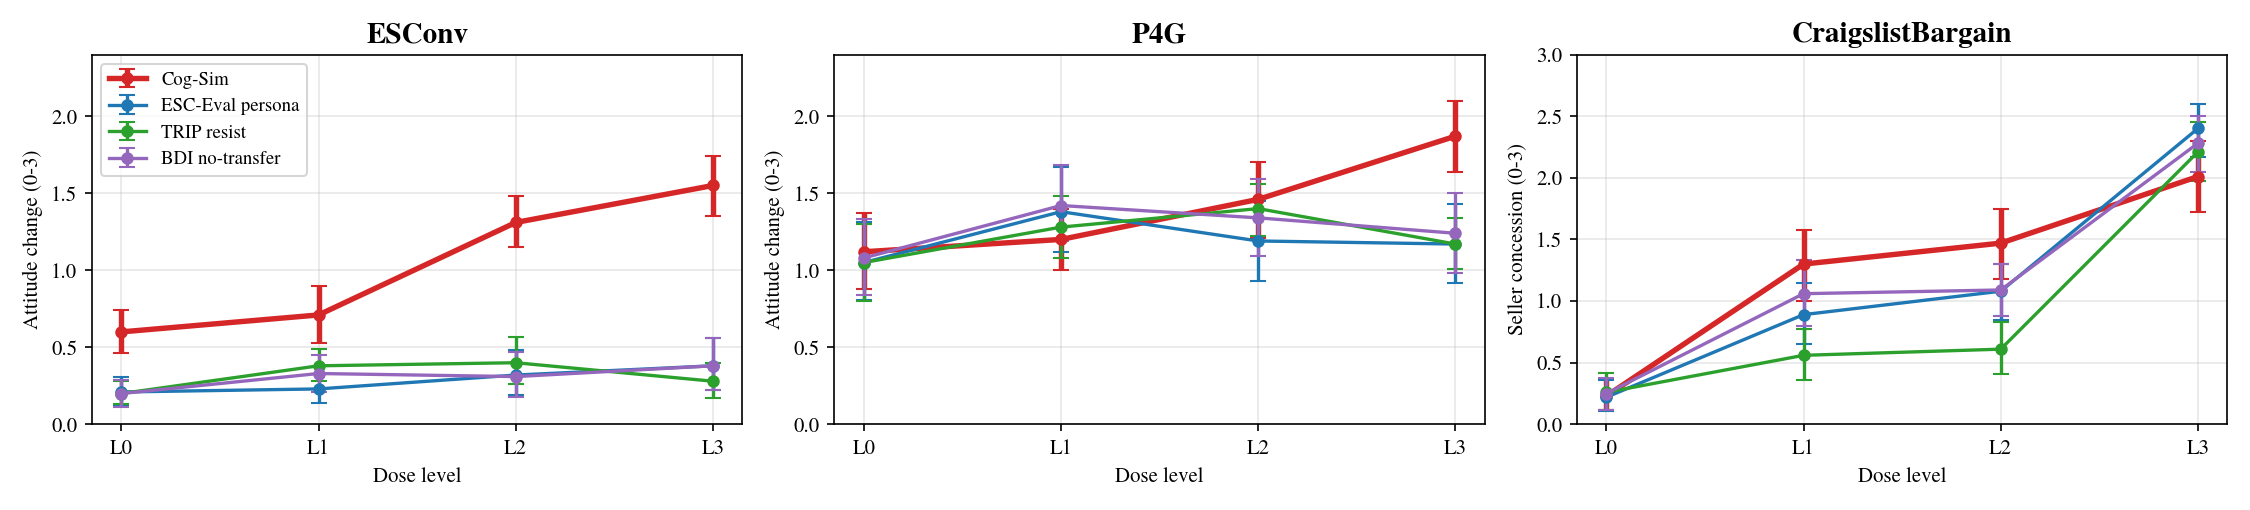
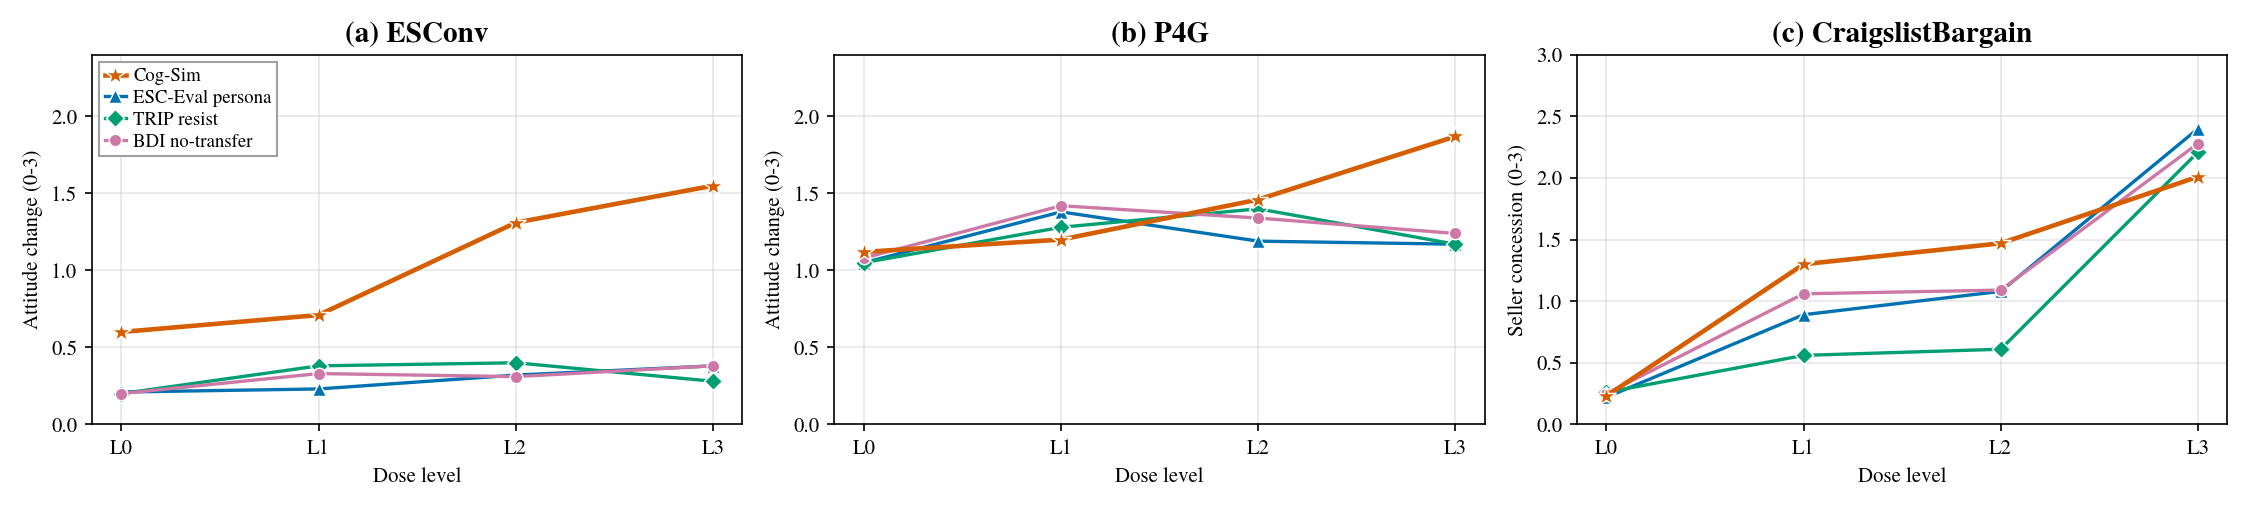
更新图表与策略分析文档，放行 result/IMPLEMENTATION
- 4_STRATEGY：策略迁移分析文档与两张柱状图更新
- 2_ABLATION / 3_GENERAL：收敛三合一图更新
- 0_SIM_REAL_LLM：dose_curves 与 plot_curves 更新
- IMPLEMENTATION：实现细节文档（DETAILS.md）首次提交
- gitignore：放行 result/IMPLEMENTATION

diff --git a/baseline/cogsim_eval/plot_curves.py b/baseline/cogsim_eval/plot_curves.py
@@ -33,8 +33,12 @@ SIMS = ["cogsim", "std_persona", "std_persona_resist", "std_bdi"]
 LABELS = {"cogsim": "Cog-Sim", "std_persona": "ESC-Eval persona",
           "std_persona_resist": "TRIP resist", "std_bdi": "BDI no-transfer"}
 LEVELS = ["L0", "L1", "L2", "L3"]
-COLORS = {"cogsim": "#d62728", "std_persona": "#1f77b4",
-          "std_persona_resist": "#2ca02c", "std_bdi": "#9467bd"}
+COLORS = {"cogsim": "#D55E00", "std_persona": "#0072B2",
+          "std_persona_resist": "#009E73", "std_bdi": "#CC79A7"}
+MARKERS = {"cogsim": "*", "std_persona": "^",
+           "std_persona_resist": "D", "std_bdi": "o"}
+MARKER_SIZES = {"cogsim": 10, "std_persona": 7,
+                "std_persona_resist": 6, "std_bdi": 6}
 RNG = np.random.default_rng(20260922)
 
 
@@ -88,9 +92,9 @@ def main() -> None:
 
     fig, axes = plt.subplots(1, 3, figsize=(15, 3.4))
     x = np.arange(len(LEVELS))
-    tasks = [("esconv", "ESConv", "Attitude change (0-3)"),
-             ("p4g", "P4G", "Attitude change (0-3)"),
-             ("cb", "CraigslistBargain", "Seller concession (0-3)")]
+    tasks = [("esconv", "(a) ESConv", "Attitude change (0-3)"),
+             ("p4g", "(b) P4G", "Attitude change (0-3)"),
+             ("cb", "(c) CraigslistBargain", "Seller concession (0-3)")]
     YMAX = {"esconv": 2.4, "p4g": 2.4, "cb": 3.0}
     for ax, (task, title, ylab) in zip(axes, tasks):
         for sim in SIMS:
@@ -101,10 +105,12 @@ def main() -> None:
             means = [stats[lv][0] for lv in LEVELS]
             lo = [means[i] - stats[lv][1] for i, lv in enumerate(LEVELS)]
             hi = [stats[lv][2] - means[i] for i, lv in enumerate(LEVELS)]
-            lw = 2.6 if sim == "cogsim" else 1.6
-            ax.errorbar(x, means, yerr=[lo, hi], label=LABELS[sim],
-                        color=COLORS[sim], linewidth=lw, marker="o",
-                        markersize=5, capsize=4)
+            lw = 2.2 if sim == "cogsim" else 1.6
+            ax.errorbar(x, means, yerr=None, label=LABELS[sim],
+                        color=COLORS[sim], linewidth=lw, marker=MARKERS[sim],
+                        markersize=MARKER_SIZES[sim], markeredgecolor="white",
+                        markeredgewidth=0.7, capsize=3, capthick=1,
+                        elinewidth=1, zorder=4 if sim == "cogsim" else 3)
         ax.set_title(title, fontsize=14, fontweight="bold")
         ax.set_xlabel("Dose level")
         ax.set_ylabel(ylab)
@@ -112,7 +118,10 @@ def main() -> None:
         ax.set_xticklabels(LEVELS)
         ax.set_ylim(0, YMAX[task])
         ax.grid(alpha=0.3)
-    axes[0].legend(fontsize=9, loc="upper left")
+    axes[0].legend(loc="upper left", ncol=1, fontsize=9, frameon=True,
+                   edgecolor="#A0A0A0", facecolor="white", framealpha=1,
+                   fancybox=False, handlelength=1.1, handletextpad=0.4,
+                   labelspacing=0.25, borderpad=0.3, borderaxespad=0.4)
     fig.tight_layout()
     plots_dir = OUT_DIR / "plots"
     plots_dir.mkdir(exist_ok=True)

diff --git a/result/0_SIM_REAL_LLM/plot_curves.py b/result/0_SIM_REAL_LLM/plot_curves.py
@@ -33,8 +33,12 @@ SIMS = ["cogsim", "std_persona", "std_persona_resist", "std_bdi"]
 LABELS = {"cogsim": "Cog-Sim", "std_persona": "ESC-Eval persona",
           "std_persona_resist": "TRIP resist", "std_bdi": "BDI no-transfer"}
 LEVELS = ["L0", "L1", "L2", "L3"]
-COLORS = {"cogsim": "#d62728", "std_persona": "#1f77b4",
-          "std_persona_resist": "#2ca02c", "std_bdi": "#9467bd"}
+COLORS = {"cogsim": "#D55E00", "std_persona": "#0072B2",
+          "std_persona_resist": "#009E73", "std_bdi": "#CC79A7"}
+MARKERS = {"cogsim": "*", "std_persona": "^",
+           "std_persona_resist": "D", "std_bdi": "o"}
+MARKER_SIZES = {"cogsim": 10, "std_persona": 7,
+                "std_persona_resist": 6, "std_bdi": 6}
 RNG = np.random.default_rng(20260922)
 
 
@@ -88,9 +92,9 @@ def main() -> None:
 
     fig, axes = plt.subplots(1, 3, figsize=(15, 3.4))
     x = np.arange(len(LEVELS))
-    tasks = [("esconv", "ESConv", "Attitude change (0-3)"),
-             ("p4g", "P4G", "Attitude change (0-3)"),
-             ("cb", "CraigslistBargain", "Seller concession (0-3)")]
+    tasks = [("esconv", "(a) ESConv", "Attitude change (0-3)"),
+             ("p4g", "(b) P4G", "Attitude change (0-3)"),
+             ("cb", "(c) CraigslistBargain", "Seller concession (0-3)")]
     YMAX = {"esconv": 2.4, "p4g": 2.4, "cb": 3.0}
     for ax, (task, title, ylab) in zip(axes, tasks):
         for sim in SIMS:
@@ -101,10 +105,12 @@ def main() -> None:
             means = [stats[lv][0] for lv in LEVELS]
             lo = [means[i] - stats[lv][1] for i, lv in enumerate(LEVELS)]
             hi = [stats[lv][2] - means[i] for i, lv in enumerate(LEVELS)]
-            lw = 2.6 if sim == "cogsim" else 1.6
-            ax.errorbar(x, means, yerr=[lo, hi], label=LABELS[sim],
-                        color=COLORS[sim], linewidth=lw, marker="o",
-                        markersize=5, capsize=4)
+            lw = 2.2 if sim == "cogsim" else 1.6
+            ax.errorbar(x, means, yerr=None, label=LABELS[sim],
+                        color=COLORS[sim], linewidth=lw, marker=MARKERS[sim],
+                        markersize=MARKER_SIZES[sim], markeredgecolor="white",
+                        markeredgewidth=0.7, capsize=3, capthick=1,
+                        elinewidth=1, zorder=4 if sim == "cogsim" else 3)
         ax.set_title(title, fontsize=14, fontweight="bold")
         ax.set_xlabel("Dose level")
         ax.set_ylabel(ylab)
@@ -112,7 +118,10 @@ def main() -> None:
         ax.set_xticklabels(LEVELS)
         ax.set_ylim(0, YMAX[task])
         ax.grid(alpha=0.3)
-    axes[0].legend(fontsize=9, loc="upper left")
+    axes[0].legend(loc="upper left", ncol=1, fontsize=9, frameon=True,
+                   edgecolor="#A0A0A0", facecolor="white", framealpha=1,
+                   fancybox=False, handlelength=1.1, handletextpad=0.4,
+                   labelspacing=0.25, borderpad=0.3, borderaxespad=0.4)
     fig.tight_layout()
     plots_dir = OUT_DIR / "plots"
     plots_dir.mkdir(exist_ok=True)

diff --git a/result/4_STRATEGY/ANALYSIS.md b/result/4_STRATEGY/ANALYSIS.md
@@ -30,46 +30,48 @@
 
 ## 表 3：细粒度层前后比例（%，Δ = 后 − 前）
 
+图中缩写列为配套图 `strategy_distribution_3in1.png` 的横轴标签（单个词、首字母大写；全名以本节表为准）。
+
 ESConv：
 
-| 标签（元类） | 前 | 后 | Δ |
-|---|---|---|---|
-| Affirmation and Reassurance（Soften） | 30.2 | 39.7 | +9.5 |
-| Providing Suggestions（Advance） | 17.9 | 22.3 | +4.4 |
-| Reflection of feelings（Soften） | 8.6 | 10.6 | +2.0 |
-| Self-disclosure（Soften） | 4.4 | 4.1 | −0.3 |
-| Question（Probe） | 15.8 | 9.8 | −6.0 |
-| Information（Probe） | 6.1 | 4.4 | −1.7 |
-| Restatement or Paraphrasing（Probe） | 4.9 | 4.2 | −0.7 |
-| Others（Other） | 12.1 | 4.9 | −7.2 |
+| 标签（元类） | 图中缩写 | 前 | 后 | Δ |
+|---|---|---|---|---|
+| Affirmation and Reassurance（Soften） | Affirm | 30.2 | 39.7 | +9.5 |
+| Providing Suggestions（Advance） | Suggest | 17.9 | 22.3 | +4.4 |
+| Reflection of feelings（Soften） | Reflect | 8.6 | 10.6 | +2.0 |
+| Self-disclosure（Soften） | Disclosure | 4.4 | 4.1 | −0.3 |
+| Question（Probe） | Question | 15.8 | 9.8 | −6.0 |
+| Information（Probe） | Inform | 6.1 | 4.4 | −1.7 |
+| Restatement or Paraphrasing（Probe） | Restate | 4.9 | 4.2 | −0.7 |
+| Others（Other） | Others | 12.1 | 4.9 | −7.2 |
 
 CraigslistBargain：
 
-| 标签（元类） | 前 | 后 | Δ |
-|---|---|---|---|
-| propose_price（Advance） | 49.8 | 54.3 | +4.5 |
-| stance（Advance） | 2.3 | 0.6 | −1.7 |
-| social（Soften） | 28.3 | 22.7 | −5.6 |
-| inquire（Probe） | 10.9 | 13.4 | +2.5 |
-| inform（Probe） | 3.3 | 6.4 | +3.1 |
-| other（Other） | 5.4 | 2.6 | −2.8 |
+| 标签（元类） | 图中缩写 | 前 | 后 | Δ |
+|---|---|---|---|---|
+| propose_price（Advance） | Price | 49.8 | 54.3 | +4.5 |
+| stance（Advance） | Stance | 2.3 | 0.6 | −1.7 |
+| social（Soften） | Social | 28.3 | 22.7 | −5.6 |
+| inquire（Probe） | Inquire | 10.9 | 13.4 | +2.5 |
+| inform（Probe） | Inform | 3.3 | 6.4 | +3.1 |
+| other（Other） | Other | 5.4 | 2.6 | −2.8 |
 
 P4G：
 
-| 标签（元类） | 前 | 后 | Δ |
-|---|---|---|---|
-| donate_request（Advance） | 4.9 | 10.9 | +6.0 |
-| logical_appeal（Advance） | 5.1 | 5.2 | +0.1 |
-| credibility_appeal（Advance） | 13.7 | 13.9 | +0.2 |
-| foot_in_the_door（Advance） | 2.1 | 3.6 | +1.5 |
-| praise_user（Soften） | 14.3 | 16.1 | +1.8 |
-| social（Soften） | 9.8 | 7.9 | −1.9 |
-| emotion_appeal（Soften） | 3.8 | 1.4 | −2.4 |
-| self_modeling（Soften） | 1.7 | 0.6 | −1.1 |
-| personal_story（Soften） | 2.3 | 1.6 | −0.7 |
-| donation_information（Probe） | 20.3 | 18.4 | −1.9 |
-| inquiry_response（Probe） | 12.8 | 11.9 | −0.9 |
-| other（Other） | 9.2 | 8.5 | −0.7 |
+| 标签（元类） | 图中缩写 | 前 | 后 | Δ |
+|---|---|---|---|---|
+| donate_request（Advance） | Request | 4.9 | 10.9 | +6.0 |
+| logical_appeal（Advance） | Logic | 5.1 | 5.2 | +0.1 |
+| credibility_appeal（Advance） | Credibility | 13.7 | 13.9 | +0.2 |
+| foot_in_the_door（Advance） | Footdoor | 2.1 | 3.6 | +1.5 |
+| praise_user（Soften） | Praise | 14.3 | 16.1 | +1.8 |
+| social（Soften） | Social | 9.8 | 7.9 | −1.9 |
+| emotion_appeal（Soften） | Emotion | 3.8 | 1.4 | −2.4 |
+| self_modeling（Soften） | Modeling | 1.7 | 0.6 | −1.1 |
+| personal_story（Soften） | Story | 2.3 | 1.6 | −0.7 |
+| donation_information（Probe） | Donation | 20.3 | 18.4 | −1.9 |
+| inquiry_response（Probe） | Response | 12.8 | 11.9 | −0.9 |
+| other（Other） | Other | 9.2 | 8.5 | −0.7 |
 
 ## 简要分析：迁移趋势与对 policy 的影响
 

diff --git a/result/IMPLEMENTATION/DETAILS.md b/result/IMPLEMENTATION/DETAILS.md
@@ -1,0 +1,17 @@
+## 5. 实施细节
+
+### 5.1 数据集与交互种子
+
+我们在 ESConv、PersuasionForGood（P4G）和 CraigslistBargain 三个公开数据集上分别训练策略。ESConv 是 supporter 与 seeker 之间的情感支持任务，使用 8 类官方支持策略；P4G 是 persuader 与 persuadee 之间的慈善捐赠劝说任务，将原始细粒度标注归并为 13 类策略；CraigslistBargain 将 Actor 设为 buyer、Cog-Sim 设为 seller，使用 6 类对话策略，并将报价、接受和退出作为独立任务事件。三个数据集的 train/validation/test 规模分别为 1196/150/150、813/102/102 和 5247/597/838，三个任务独立训练，不共享策略标签或回报尺度。
+
+每个 rollout seed 包含来源与分组标识、双方角色、Actor 与用户各自可见的任务信息、截止点前的对话、用户 Persona、认知参数 \(\Theta_u\)、初始 BDI、初始 Emotion，以及随机流、轮数预算和组件版本等复现信息。ESConv seed 还包含问题情境和起始情绪证据；P4G seed 包含与任务相关的用户问卷特征；CraigslistBargain seed 分开保存商品知识库和买卖双方各自的目标价。Actor 只读取对话历史和自己的任务视图，用户私有信息只进入 Cog-Sim 和训练侧 critic；原始后续对话与终局结果不进入 rollout 初始化。
+
+### 5.2 SFT 与强化学习
+
+我们采用 Qwen3-14B 作为策略模型，并为三个任务分别训练。SFT 样本统一写成“策略标签 + 换行 + 话语”，由同一自回归模型联合学习。训练数据由官方真人对话与冻结教师策略在 Cog-Sim 中产生的蒸馏轨迹按 1:1 混合。SFT 使用 LoRA（rank 64、alpha 128、dropout 0.05），最大长度为 4096，学习率为 $2\times10^{-5}$，训练 4 个 epoch。
+
+RL 从各任务的 SFT checkpoint 初始化，使用多轮 PPO、Cog-critic 和冻结的 SFT 参考策略。Actor 与 critic 的学习率分别为 $1\times10^{-5}$ 和 $1\times10^{-4}$，LoRA rank 均为 64，PPO 裁剪系数为 0.2，折扣因子为 1。每个训练 step 抽取 10 个种子并分别生成主干轨迹。对于 CraigslistBargain 和 P4G，我们在每条主干上选取 3 个尚未结束的节点，并从每个节点的同一动作前状态独立采样 $n=2$ 条续演；对于 ESConv，则选取 4 个尚未结束的节点并进行相同的 $n=2$ 扩展。Actor 每次生成自然语言回复的长度上限为 128 tokens，整条对话最多持续 30 个 Actor–User 回合。rollout 使用 temperature 1 和 top-p 1，以保持采样分布与训练 log-probability 一致；策略标签通过 trie 约束采样，扩展分支用于训练 critic 和估计字段级优势。训练基于 verl，生成后端采用 vLLM。所有实验在两张 NVIDIA A100 80GB GPU 上完成。SFT 使用单张 GPU；
+
+### 5.3 用户模拟与终局评价
+
+Cog-Sim 的语义推理模块使用冻结的 GPT-5.5、固定提示词和确定性路线设置，训练期间不更新。终局 Judge 使用相同的冻结后端，对每条完整对话进行 3 次独立结构化评价并聚合结果；ESConv 返回情绪/希望改善与行动计划，P4G 返回承诺及撤回状态，CraigslistBargain 返回成交状态和最终价格。能够确定性计算的标量效用由程序完成。Judge 只读取对话和必要任务事实，不读取 Cog-Sim 隐状态或 critic 输出。
